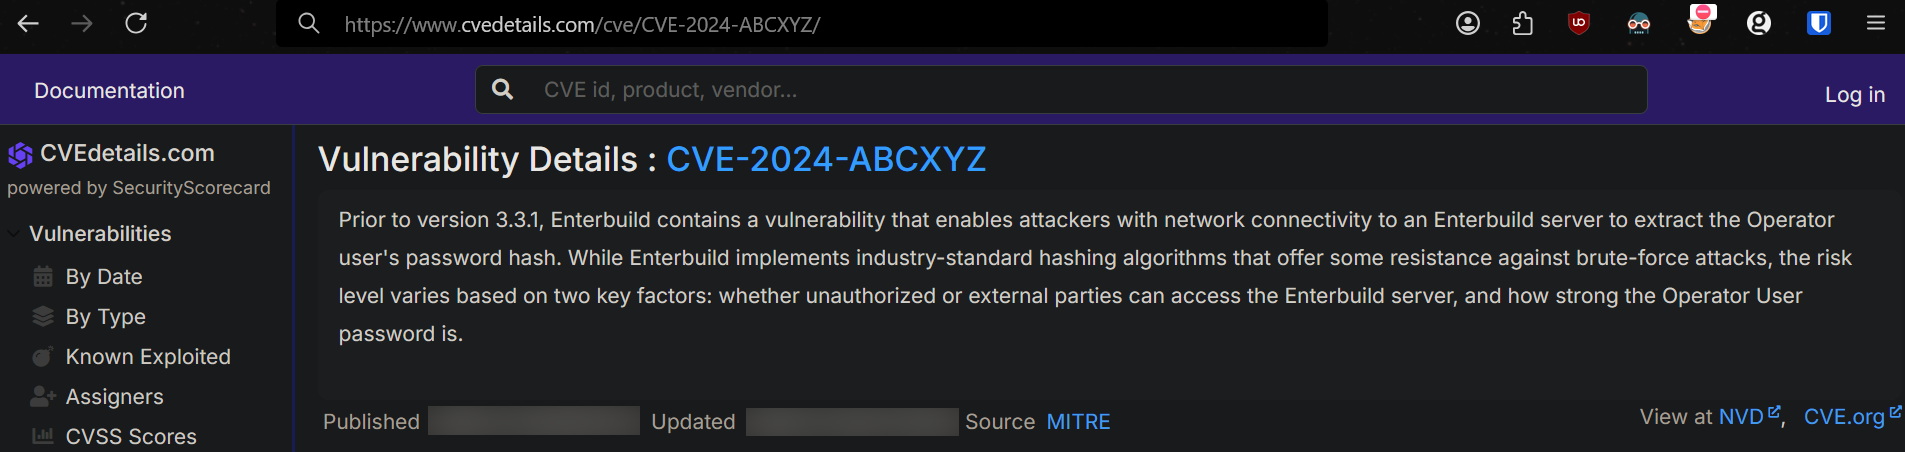
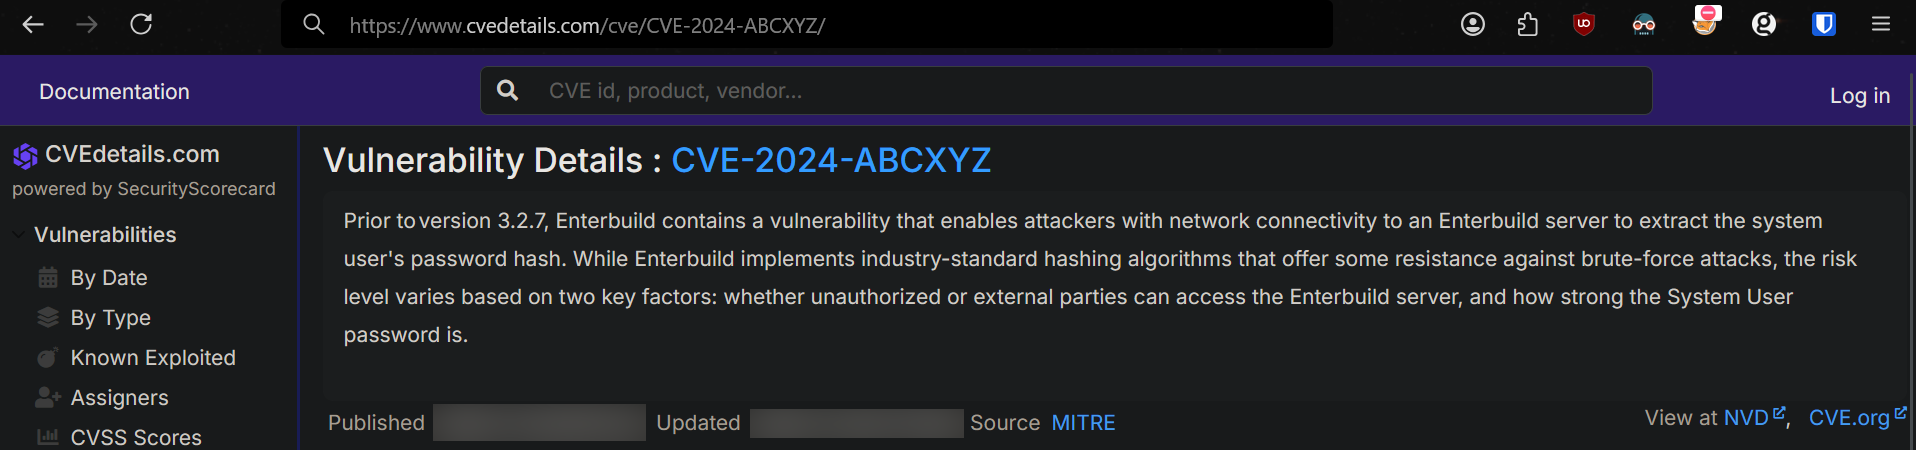
fix

diff --git a/content/en/posts/ndaydev/index.md b/content/en/posts/ndaydev/index.md
@@ -4,12 +4,30 @@ date: 2025-04-04  # Use the original post date
 draft: true
 tags: ["Security research", "Bug Bounty Hunting", "N-Day development"]
 ---
+## Before reading
+Do note that I have replaced some details in this blogpost, such as the name of the company, the name of the software, the CVE in question and the discovered vulnerable endpoint. This post is about writing an n-day and not about outing some company or software vendor :-) This means that the enterprise software is not `Enterbuild`, I am not doing bug bounty hunting for `company.com`, and there is no such endpoint as `/operator-hash`, these are all just placeholders so as to not leak information about the targets, just to clarify.
 
-### Before reading
-Do note that I have replaced some details in this blogpost, such as the name of the company, the name of the software, the CVE in question and the discovered vulnerable endpoint. This post is about writing an n-day and not about outing some company or software vendor :-)
 
-### Out of scope -> n day development -> in scope -> Payout
-So this all started when I was doing some bug bounty hunting for a private Intigriti program. I had recently learned a new tactic from Jason Haddix about scanning the Amazon EC2 ranges to look for hosts that are in scope, but won't necessarily show up through certificate transparancy or through other subfinding tools such as `subfinder`. I had been scanning a few million hosts when the following in-scope host popped up.
+## Introduction to N-Day Development
+In the world of vulnerability research, *"N-day"* refers to vulnerabilities that have been patched but where public exploit code doesn't exist. Unlike 0-days (unknown vulnerabilities) or publicly exploitable vulnerabilities, N-days occupy a unique middle ground - they're known to exist but require security researchers to bridge the gap between vulnerability disclosure and working exploit. If you're a pentester, CTF player or bug hunter I am sure you have been searching for `CVE-XXXX-YYYYY POC github` before for a quick win, only to come up empty handed browsing a bunch of different sites rewording each other.
+
+This post documents my journey of taking a vulnerability from "out of scope" to "in scope" in a bug bounty program, by developing an N-day exploit through patch diffing - analyzing the differences between vulnerable and patched versions of software to understand exactly what was fixed and how to exploit it.
+
+## Methodology for N-Day Development
+
+Developing N-day exploits typically follows these steps:
+1. **Identify the vulnerability** - Find references to the CVE
+2. **Acquire software versions** - Obtain both vulnerable and patched versions
+3. **Perform patch diffing** - Compare code to identify what changed
+4. **Understand the vulnerability** - Analyze the code to understand the security issue that was fixed from one version to the other
+5. **Develop a proof of concept** - Use your knowledge to create a working exploit
+6. **Verify and document** - Test against vulnerable systems and document findings
+
+Lets get started!
+
+
+## Submitting an out of scope bug
+So this all started when I was doing some bug bounty hunting for a private Intigriti program. I had recently learned a new tactic from Jason Haddix about scanning the Amazon EC2 ranges to look for hosts that are in scope, but won't necessarily show up through certificate transparency or through other subfinding tools such as `subfinder`. I had been scanning a few million hosts when the following in-scope host popped up.
 
     enterbuild-platform-infra.company.com
 
@@ -21,33 +39,36 @@ But it was interesting navigating to `/robots.txt` and seeing the software leaki
 
 ![alt text](versionnum.png)
 
-Searching the software and the version number revealed that the version of the software vas vulnerable to `CVE-2024-ABCXYZ`
+Searching the software and the version number revealed that the version of the software was vulnerable to `CVE-2024-ABCXYZ`
 
 ![alt text](cvelololol.png)
+Because the deployed version was `3.2.6` and the fix was deployed in `3.2.7` I would assume it was vulnerable to the CVE.
 
 I wanted to exploit it but there was absolutely no information online about a proof of concept, nothing but advisories online rewording the same thing about a password hash leak of the `operator` user. 
 
-At this point I was a bit sleepy and I wanted to just send the submission to Intigriti, it is a pretty large program and I thought *Hey I guess maybe I will just hit a low, guess that is good enough for today*, boy was I wrong. I got the email from Intigriti about a change in the report, always such a rush, so I go to check and its marked `Out of Scope` with this comment from the triager.
+At this point I was a bit sleepy and I wanted to just send the submission to Intigriti, it is a pretty large program and I thought *Hey I guess maybe I will just hit a low, guess that is good enough for today*, boy was I wrong. I got the email from Intigriti about a change in the report, always such a rush, so I go to check and it's marked `Out of Scope` with this comment from the triager.
 
 ![alt text](OOS.png)
 
-God damnit, I should have spent more time looking at the scope rules, but what hurt even more was to see my 100% submission rating now look like this:
+God dammit, I should have spent more time looking at the scope rules, but what hurt even more was to see my 100% submission rating now look like this:
 
 ![alt text](stats.png)
 
-Alright so of course I should have seen this coming, it's not really impactful research in any way to just scan something, spot a vulnerable version and report that it's vulnerable to some CVE to them. However it would be valuable to them if I found out how to actually exploit it and show them that I can do it! 
+## Patch diffing to build an N-day
 
-So what can I do, I looked at the CVE details on the site and saw that the vulnerability was mitigated in `Enterbuild 3.2.7`
+Alright so of course I should have seen this coming, it's not really impactful research in any way to just scan something, spot a vulnerable version and report that it's vulnerable to some CVE to program owners. However it would be valuable to them if I found out how to actually exploit it and show them that I can do it! 
+
+So what can I do? I looked at the CVE details on the site and saw that the vulnerability was mitigated in `Enterbuild 3.2.7`
 It was not some basic configuration issue but rather a bug that was patched. When I went to the Enterbuild website there was no download option, only an option for contacting them for a trial... 
 
 So that is what I did, I filled out the form saying that I was a security researcher interested in getting access to their software to do well.. Security research.
 
 ![alt text](trial2222.png)
 
-So a sales person will reach out to me, guess I gotta wait. Over the next few days I got a response back about how many Developers I was responsible for (1 lol) and got forwarded to a Security person who was curious about my request since they rarely get such requests. I did not mention that I was looking to figure out how to exploit a vulnerability, I just said I was curious to get a trial for security research. This is the correspondance:
+So a sales person will reach out to me, guess I gotta wait. Over the next few days I got a response back about how many Developers I was responsible for (1 lol) and got forwarded to a Security person who was curious about my request since they rarely get such requests. I did not mention that I was looking to figure out how to exploit a vulnerability, I just said I was curious to get a trial for security research. This is the correspondence:
 
 ```text
-Marvin -> Emil
+Simon -> Emil
 
 Hi Emil,
 
@@ -68,27 +89,27 @@ Let me know and I will send over the calendar invite. Looking forward to connect
 
 Cheers,
 
- Marvin
+ Simon
 
 Senior Sales Development Representative
 ```
 
 ```text
-Emil -> Marvin
+Emil -> Simon
 
-Hi Marvin.
+Hi Simon.
 
 I am an independent security contractor who does penetration testing and bug bounty hunting for clients.
 
 https://app.intigriti.com/researcher/profile/0xlime
 
-I am interested in a Enterbuild test license that can allow me to spin up an airgapped version of the software to do security assessment of the software. I am in full compliance with your guidelines at {...} and will naturally confidentially disclose any findings I may have.
+I am interested in a Enterbuild test license that can allow me to spin up an Standaloneped version of the software to do security assessment of the software. I am in full compliance with your guidelines at {...} and will naturally confidentially disclose any findings I may have.
 
 So to answer your questions:
 
     Can you explain your goals or pains you're dealing with that we can address in the trial?
 
-Security research of the Enterbuild platform when self hosted in airgapped systems.
+Security research of the Enterbuild platform when self hosted in Standaloneped systems.
 
     What programming languages/platforms (Java, Kotlin, Android etc.) are you using in your team and across your company and what build tools are you using (Gradle, Maven, Bazel, etc.)?
 
@@ -100,16 +121,16 @@ Just me :-)
 ```
 
 ```text
-Marvin -> Emil
+Simon -> Emil
 Hi Emil,
 
-Thanks again for the insight on what you are looking to accomplish. I have looped in our VP of Information Security - Adam  and he will go ahead and assist you with this process. Looking forward to connecting. Talk soon!
+Thanks again for the insight on what you are looking to accomplish. I have looped in our VP of Information Security - Timothy  and he will go ahead and assist you with this process. Looking forward to connecting. Talk soon!
 
 Cheers,
 ```
 
 ```
-Adam -> Emil
+Timothy -> Emil
 
 Hi Emil
 
@@ -117,34 +138,34 @@ Thanks for getting in touch and finding our Vulnerability Disclosure Policy!
 
 Could you provide any background as to your interest or how you found us? It's rare we get these requests from security researchers outside of the usual missing HTTP headers and DNS problems on our websites we get daily. 
 
-The airgap license will be time limited - how much time would you like? I'd need to check with Sales but i think 2-3 weeks would usually be the most we can do. 
+The Standalone license will be time limited - how much time would you like? I'd need to check with Sales but i think 2-3 weeks would usually be the most we can do. 
 
 We do pen test Enterbuild around 4 times a year but no test can cover everything. 
 
 There may be some interesting information in the Key Features section here; {...}
 
 Thanks,
-Adam
+Timothy
 ```
 
 ```
-Emil -> Adam
+Emil -> Timothy
 
-Hi Adam.
+Hi Timothy.
 
 {..} My interest then came to me again when doing some reconnaissance for a bug bounty program where I found some Enterbuild servers.
 
-I have previously been working on security in DevOps tools, Gitlab mostly but also Jenkins {..}
+I have previously been working on security in DevOps tools, Gitlab mostly but also Jenkins {...}
 
 That is to say, if I find anything again of course I will report it through the responsible disclosure policy.
 
 2-3 weeks is perfect for me I think :-)
 
-Thanks again Adam
+Thanks again Timothy
 ```
 
 ```
-Adam -> Emil
+Timothy -> Emil
 
 Thanks for the explanation! I'll get that license sent over to you
 Feel free to send any questions etc our way. All our documentation is at docs.enterbuild.com
@@ -154,15 +175,13 @@ Alright so if you jumpted to this part, the  correspondance is basically them ch
 
 ![alt text](4gb.png)
 
-So inside these tar archives there were some metadata files
+So inside these two 4gb+ tar archives there were some metadata files
 ![alt text](metadata.png)
 
 And inside the blobs folder, a lot of large blobs of data.
 ![alt text](blobs.png)
 
-These are actually all containers files OCI (Open Container Initiative) format that has been exported to a tarball. I can recover the containers into Docker by running:
-
-So I can load in the docker images using the following command
+These are actually all containers files in OCI (Open Container Initiative) format that has been exported to a tarball. I can export the containers into Docker by running:
 
     docker load < Enterbuild-standalone-3.2.6-images.tar
 
@@ -194,12 +213,13 @@ So this is the resulting containers and their names:
     Loaded image: registry.enterbuild.com/enterbuild/database-upgrade-alpine:3.2.6
     Loaded image: registry.enterbuild.com/enterbuild/enterprise-app:3.2.6
 
-And the most promising of these ones for finding an authentication vulnerability must be these 3:
+There are quite a lot and many of them probably just work as databases, monitoring or have other helpful functions, what I was looking for was something to do with the application. And the most promising of these ones for finding an authentication vulnerability must be these 3:
+
     Loaded image: registry.enterbuild.com/enterbuild/enterprise-app:3.2.6
     Loaded image: registry.enterbuild.com/enterbuild/keycloak:3.2.6
     Loaded image: registry.enterbuild.com/enterbuild/database:3.2.6
 
-But I are going to (and end up being successful with) just picking the `enterprise-app:3.2.6`
+But I am going to (and end up being successful with) just picking the `enterprise-app:3.2.6`
 
 So Claude helps me write a small bash snippet to extract the filesystem for both the vulnerable version (`3.2.6`) of `enterprise-app` and the patched (`3.2.7`).
 
@@ -215,17 +235,18 @@ docker cp vulnerable:/ ./extracted/vulnerable/
 docker cp patched:/ ./extracted/patched/
 ```
 
-Which ended up giving me two filesystems for `enterbuild-enterprise-app` pre and post the patch! The filesystem had a reference to *enterbuild* in the `/opt` directory 
+Which ended up giving me two linux filesystems for `enterbuild-enterprise-app` pre and post the patch! The filesystem had a reference to *enterbuild* in the `/opt` directory 
 
 ![alt text](filessss.png)
 
-So there is a large `enterprise-app-all.jar` that seems to be the entrypoint for this container, inside it there are TONS of files, and I really mean TONS of files, it was such a big file (**300 megabyte .jar**) that 7zip crashed trying to export it. I ended up just saying its not feasible to do and not doing it. So I instead browsed around the 7zip archive only to be even more overwhelmed.
+So there is a large `enterprise-app-all.jar` that seems to be the entrypoint for this container, inside it there are TONS of files, and I really mean TONS of files (`.jar` files are basically zip compressed archives, so you can just open them in 7-zip or whatever), it was such a big file (**300 megabyte .jar**) that 7zip crashed trying to export it. I ended up just saying its not feasible extract and simply not doing it. So I instead browsed around the 7zip archive only to be even more overwhelmed.
 
 ![alt text](enterpriseapp.png)
+This was only about a fourth of what could be seen in the root of the folder, where to even start?
 
-So when doing patch analysis what you want to do is to extract all files pre and post patch and look for changes in files to figure out what happened to patch the vulnerability. 
+So when doing patch analysis what you want to do is to extract all files **pre** and **post** patch and look for changes in files or folders, to figure out what happened in order to patch the vulnerability. 
 
-This is not the easiest approach when you cannot even unzip the large .jar, so what I ended up doing was (with Claude) write a script that will match files to each other inside the jar, check if they have a size difference or if a file only exists in either folder and then extract based on these criteria. This took a bit forth and back but I ended up getting this script to extract files.
+This is not the easiest approach when you cannot even unzip the large `.jar`, so what I ended up doing was (with Claude) write a script that will match files to each other inside the jar, check if they have a size difference or if a file only exists in either folder and then extract based on these criteria. This took a bit forth and back but I ended up getting this script to extract files.
 
 ```python
 #!/usr/bin/env python3
@@ -341,12 +362,13 @@ Running this script gave the following result in `results.txt`
 
 Alright **awesome!!!**  This is realistic that only 435 files were changed out of 138.793 total files. However these were a LOT of `.class` files:
 ![alt text](classfiles_a.png)
+`.class` files are compiled java files which are not inherently easy to read, however they are somewhat easy to decompile back into `.java` files, which can be done with a popular tool named `jadx`: https://github.com/skylot/jadx
 
-So the next step is to use `jadx`, a java decompiler to get the best bet on the decompiled version. I also see a bunch of 1 letter class names like `a.class` which indicates some level of obfuscation.
+So the next step is to use `jadx`, to get the best bet on the decompiled version. I also see a bunch of 1 letter class names like `a.class` which indicates some level of obfuscation.
 
-So Claude writes this script up for me, what it basically does is enumerate through all folders and find `.class` files, take note of the location and run `jadx` on that class file and produce a `.java` file in the corresponding folder structure. 
+So Claude writes this script up for me, what it basically does is enumerate through all the changed files from **pre** and **post** patch and find `.class` files, take note of the location and run `jadx` on that class file and produce a `.java` file in the corresponding folder structure. 
 
-Then the script runs diff on the two of them and generates an overall report that allows me to look at where and what files have changed. AI is amazing at this job.
+Then the script runs diff on the pair of them and generates an overall report that allows me to look at where and what files have changed. AI is amazing at this job.
 
 ```python
 #!/usr/bin/env python3
@@ -530,11 +552,12 @@ with open("decompiled/diff_report.html", "w") as f:
 
 print("An HTML report is available at decompiled/diff_report.html")
 ```
+This script provided an HTML overview of the files with a search ability (lol so insane).
 
 Opening the `diff_report.html` and searching for **admin** (which was just a guess) revealed these files:
 ![alt text](adminsearch.png)
 
-Which lead me to the holy grail and what I was looking for inside a file called `a.java` where I noticed the following line had been changed from `3.2.6` to `3.2.7`
+I had to spend quite some time manually looking around, but eventially I was lead to the holy grail, namely `a.java`  where I noticed the following line had been changed from version `3.2.6` to `3.2.7`
 
 
 ```diff
@@ -543,7 +566,7 @@ Which lead me to the holy grail and what I was looking for inside a file called 
      public void execute(Chain chain) throws Exception {
 -        chain.prefix("operator-hash", chain2 -> {
 -            chain2.post("reset", this::a).path(context -> {
-+        chain.prefix("operator-hash", chain2 -> {
++        chain.prefix("operator-hash-safe", chain2 -> {
 +            chain2.post("reset", ctx -> validateRequest(ctx, this::a)).path(context -> {
                  context.byMethod(byMethodSpec -> {
 -                    byMethodSpec.get(this::b).post(this::c);
@@ -571,8 +594,23 @@ Which lead me to the holy grail and what I was looking for inside a file called 
 +    }
 ```
 
-So this is a routing scheme that specifically gets renamed and patched to require auth. Before the patch there is an issue where you can make a GET or POST request to `/operator-hash` but only the `POST` has the authentication checked So now both have authentication checked. So this means that if we request `/operator-hash` on our target site, we should be able to extract the hash.
-
+So this is a routing scheme that specifically gets renamed and patched to require auth. Before the patch there is an issue where you can make a GET or POST request to `/operator-hash` but only the `POST` has the authentication checked. In the updated version  both have authentication checked. So this means that if I request `/operator-hash` on our target site, I should be able to extract the hash.
 ![alt text](hashessssss.png)
 
-**BINGOOOOO** 
+**BINGOOOOO!!!!** - I have succesfully patch analysised my way to understand how to exploit the CVE.
+
+### Bringing the submission back into scope 
+So this is the hash and salt for the `operator` user, the built in *always-admin* user. Now I tried to crack this password but it came up empty handed, I found out from reading more of the code that it was using `PBKDF2-HMAC-SHA512` with 10k rounds which is notoriously expensive to crack, a few hours on a graphics card came up empty handed, so it was time to just update the Intigriti report with this. Had I found the password it would have been a much more serious issue, but alas, this should be enough to put it back into scope and get my submission rating back to 100%
+
+![alt text](backtotriager.png)
+
+Triage took a bit of time to get back to me, I didn't know you could tag them, but they put it back into scope and shortly after the program manager accepted the issue and awarded me a bounty of 725 $, not bad for a few hours of reversing.
+
+![alt text](bountyxx.png)
+
+### Outro
+So what is the learnings from this? Well first of all read the rules of engagement and scope rules before going at it for a bug bounty program, I thought it was quite embarrasing getting an *out of scope* vulnerability since I really try to preach that this is insanely important to new hunters. 
+
+What you can also learn is that using modern AI tools, N-day development through patch diffing (especially when its Java thats the langauge) is actually somewhat straight forward, Claude helped me write the scripts to pull out the right files, do proper patch diffing and making educated guesses as to where the vulnerable code could be, only based on a vague CVE description. It is important to know which questions to ask and how to ask them, that definitely helped me find the vulnerable part of the code.
+
+I also learned you can now ping members of the report on Intigriti, but maybe that should have been obvious :-) I am now gonna get the payout, pay my taxes and buy a PS5 for my brotherrs birthday. Happy hacking!
